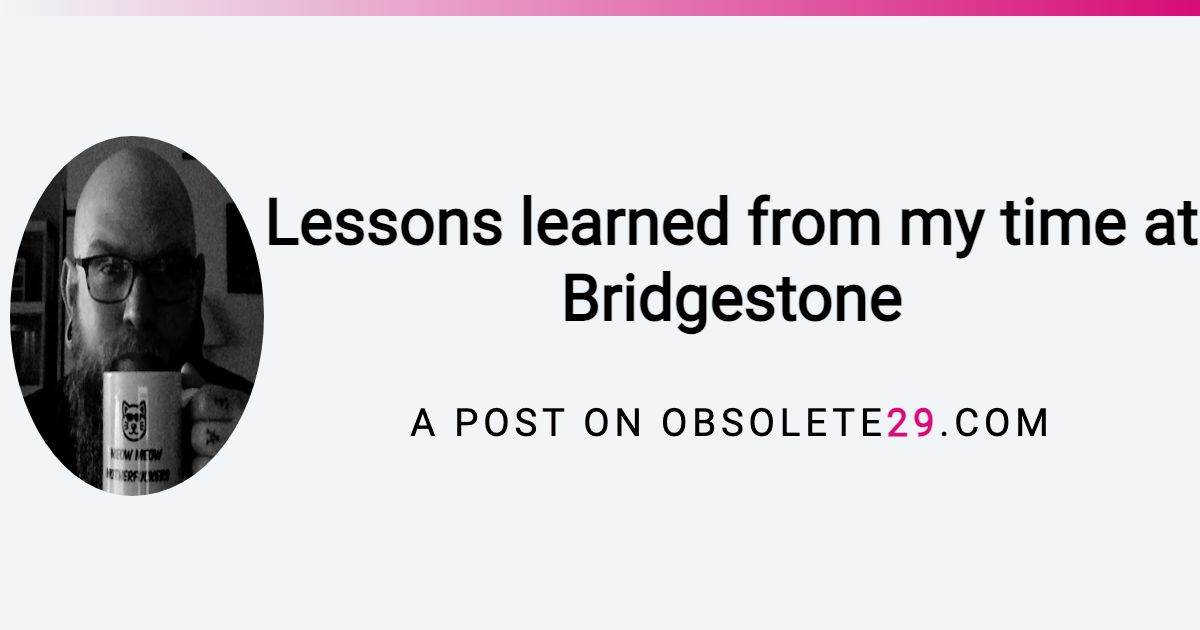
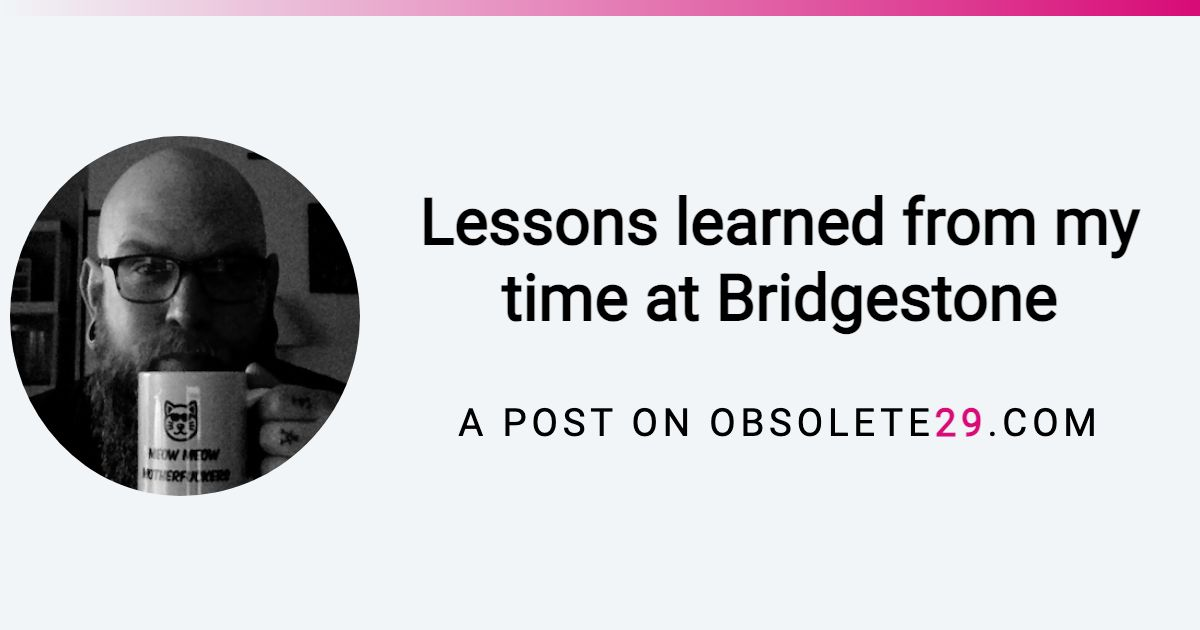
og

Changed region(s): [[0.0, 0.2111, 1.0, 0.7841], [0.4008, 0.4222, 0.8942, 0.5429], [0.3392, 0.6333, 0.925, 0.6937]]

diff --git a/posts/lessons-learned-from-bridgestone/index.html b/posts/lessons-learned-from-bridgestone/index.html
@@ -30,11 +30,9 @@
     <meta property="og:type" content="article">
     <meta name="image" property="og:image" content="https://obsolete29.com/posts/lessons-learned-from-bridgestone/og-image/social-cover.jpg">
     <meta property="og:image:width" content="1200">
-    <meta property="og:image:height" content="675">
+    <meta property="og:image:height" content="630">
     <meta property="article:author" name="author" content="Michael Harley">
     <meta property="article:published_time" content="Sun Sep 06 2020 19:00:00 GMT-0500 (Central Daylight Time)">
-    <!-- LinkedIn -->
-
     <!-- Twitter -->
     <meta name="twitter:title" content="Lessons learned from my time at Bridgestone">
     <meta name="twitter:card" content="summary_large_image">

diff --git a/posts/learning-web-dev/index.html b/posts/learning-web-dev/index.html
@@ -30,11 +30,9 @@
     <meta property="og:type" content="article">
     <meta name="image" property="og:image" content="https://obsolete29.com/posts/learning-web-dev/og-image/social-cover.jpg">
     <meta property="og:image:width" content="1200">
-    <meta property="og:image:height" content="675">
+    <meta property="og:image:height" content="630">
     <meta property="article:author" name="author" content="Michael Harley">
     <meta property="article:published_time" content="Tue Sep 01 2020 19:00:00 GMT-0500 (Central Daylight Time)">
-    <!-- LinkedIn -->
-
     <!-- Twitter -->
     <meta name="twitter:title" content="I&#39;m learning web development">
     <meta name="twitter:card" content="summary_large_image">

diff --git a/posts/please-meet-my-cats/index.html b/posts/please-meet-my-cats/index.html
@@ -30,11 +30,9 @@
     <meta property="og:type" content="article">
     <meta name="image" property="og:image" content="https://obsolete29.com/posts/please-meet-my-cats/og-image/social-cover.jpg">
     <meta property="og:image:width" content="1200">
-    <meta property="og:image:height" content="675">
+    <meta property="og:image:height" content="630">
     <meta property="article:author" name="author" content="Michael Harley">
     <meta property="article:published_time" content="Sat Dec 05 2020 18:00:00 GMT-0600 (Central Standard Time)">
-    <!-- LinkedIn -->
-
     <!-- Twitter -->
     <meta name="twitter:title" content="Please meet my cats">
     <meta name="twitter:card" content="summary_large_image">

diff --git a/posts/hello-world/index.html b/posts/hello-world/index.html
@@ -30,11 +30,9 @@
     <meta property="og:type" content="article">
     <meta name="image" property="og:image" content="https://obsolete29.com/posts/hello-world/og-image/social-cover.jpg">
     <meta property="og:image:width" content="1200">
-    <meta property="og:image:height" content="675">
+    <meta property="og:image:height" content="630">
     <meta property="article:author" name="author" content="Michael Harley">
     <meta property="article:published_time" content="Fri Jan 27 2012 18:00:00 GMT-0600 (Central Standard Time)">
-    <!-- LinkedIn -->
-
     <!-- Twitter -->
     <meta name="twitter:title" content="Hello world!">
     <meta name="twitter:card" content="summary_large_image">

diff --git a/index.html b/index.html
@@ -30,11 +30,9 @@
     <meta property="og:type" content="website">
     <meta name="image" property="og:image" content="https://obsolete29.com/assets/img/site-social-cover.jpg">
     <meta property="og:image:width" content="1200">
-    <meta property="og:image:height" content="675">
+    <meta property="og:image:height" content="630">
     <meta property="article:author" name="author" content="Michael Harley">
     <meta property="article:published_time" content="">
-    <!-- LinkedIn -->
-
     <!-- Twitter -->
     <meta name="twitter:title" content="Michael Harley, chief goblin herder">
     <meta name="twitter:card" content="summary_large_image">

diff --git a/posts/index.html b/posts/index.html
@@ -30,11 +30,9 @@
     <meta property="og:type" content="article">
     <meta name="image" property="og:image" content="https://obsolete29.com/assets/img/site-social-cover.jpg">
     <meta property="og:image:width" content="1200">
-    <meta property="og:image:height" content="675">
+    <meta property="og:image:height" content="630">
     <meta property="article:author" name="author" content="Michael Harley">
     <meta property="article:published_time" content="">
-    <!-- LinkedIn -->
-
     <!-- Twitter -->
     <meta name="twitter:title" content="Posts by Michael Harley">
     <meta name="twitter:card" content="summary_large_image">

diff --git a/contact/index.html b/contact/index.html
@@ -30,11 +30,9 @@
     <meta property="og:type" content="article">
     <meta name="image" property="og:image" content="https://obsolete29.com/assets/img/site-social-cover.jpg">
     <meta property="og:image:width" content="1200">
-    <meta property="og:image:height" content="675">
+    <meta property="og:image:height" content="630">
     <meta property="article:author" name="author" content="Michael Harley">
     <meta property="article:published_time" content="">
-    <!-- LinkedIn -->
-
     <!-- Twitter -->
     <meta name="twitter:title" content="Contact Michael Harley">
     <meta name="twitter:card" content="summary_large_image">

diff --git a/about/index.html b/about/index.html
@@ -30,11 +30,9 @@
     <meta property="og:type" content="article">
     <meta name="image" property="og:image" content="https://obsolete29.com/assets/img/site-social-cover.jpg">
     <meta property="og:image:width" content="1200">
-    <meta property="og:image:height" content="675">
+    <meta property="og:image:height" content="630">
     <meta property="article:author" name="author" content="Michael Harley">
     <meta property="article:published_time" content="">
-    <!-- LinkedIn -->
-
     <!-- Twitter -->
     <meta name="twitter:title" content="About Michael Harley">
     <meta name="twitter:card" content="summary_large_image">

diff --git a/posts/career/index.html b/posts/career/index.html
@@ -30,11 +30,9 @@
     <meta property="og:type" content="article">
     <meta name="image" property="og:image" content="https://obsolete29.com/assets/img/site-social-cover.jpg">
     <meta property="og:image:width" content="1200">
-    <meta property="og:image:height" content="675">
+    <meta property="og:image:height" content="630">
     <meta property="article:author" name="author" content="Michael Harley">
     <meta property="article:published_time" content="">
-    <!-- LinkedIn -->
-
     <!-- Twitter -->
     <meta name="twitter:title" content="#career">
     <meta name="twitter:card" content="summary_large_image">

diff --git a/posts/webdev/index.html b/posts/webdev/index.html
@@ -30,11 +30,9 @@
     <meta property="og:type" content="article">
     <meta name="image" property="og:image" content="https://obsolete29.com/assets/img/site-social-cover.jpg">
     <meta property="og:image:width" content="1200">
-    <meta property="og:image:height" content="675">
+    <meta property="og:image:height" content="630">
     <meta property="article:author" name="author" content="Michael Harley">
     <meta property="article:published_time" content="">
-    <!-- LinkedIn -->
-
     <!-- Twitter -->
     <meta name="twitter:title" content="#webdev">
     <meta name="twitter:card" content="summary_large_image">

diff --git a/posts/hello/index.html b/posts/hello/index.html
@@ -30,11 +30,9 @@
     <meta property="og:type" content="article">
     <meta name="image" property="og:image" content="https://obsolete29.com/assets/img/site-social-cover.jpg">
     <meta property="og:image:width" content="1200">
-    <meta property="og:image:height" content="675">
+    <meta property="og:image:height" content="630">
     <meta property="article:author" name="author" content="Michael Harley">
     <meta property="article:published_time" content="">
-    <!-- LinkedIn -->
-
     <!-- Twitter -->
     <meta name="twitter:title" content="#hello">
     <meta name="twitter:card" content="summary_large_image">

diff --git a/posts/Cats/index.html b/posts/Cats/index.html
@@ -30,11 +30,9 @@
     <meta property="og:type" content="article">
     <meta name="image" property="og:image" content="https://obsolete29.com/assets/img/site-social-cover.jpg">
     <meta property="og:image:width" content="1200">
-    <meta property="og:image:height" content="675">
+    <meta property="og:image:height" content="630">
     <meta property="article:author" name="author" content="Michael Harley">
     <meta property="article:published_time" content="">
-    <!-- LinkedIn -->
-
     <!-- Twitter -->
     <meta name="twitter:title" content="#cats">
     <meta name="twitter:card" content="summary_large_image">
